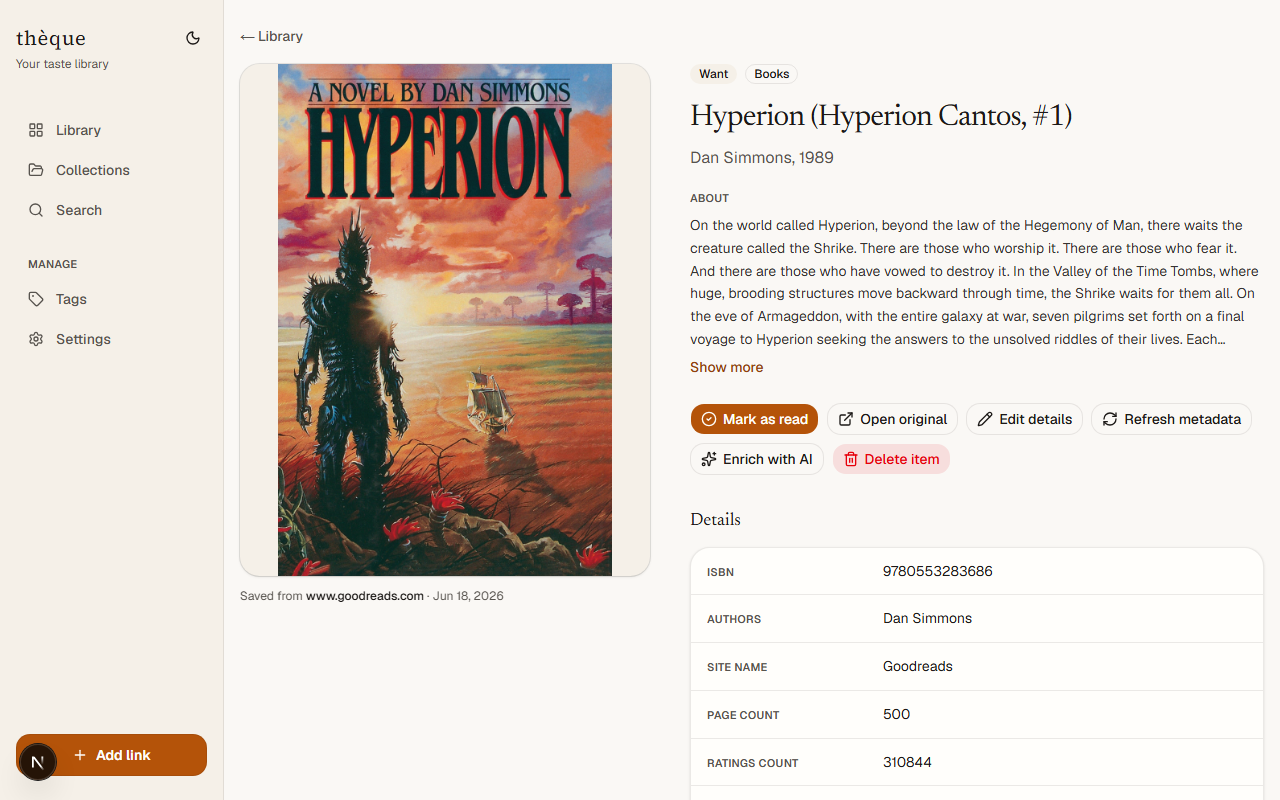
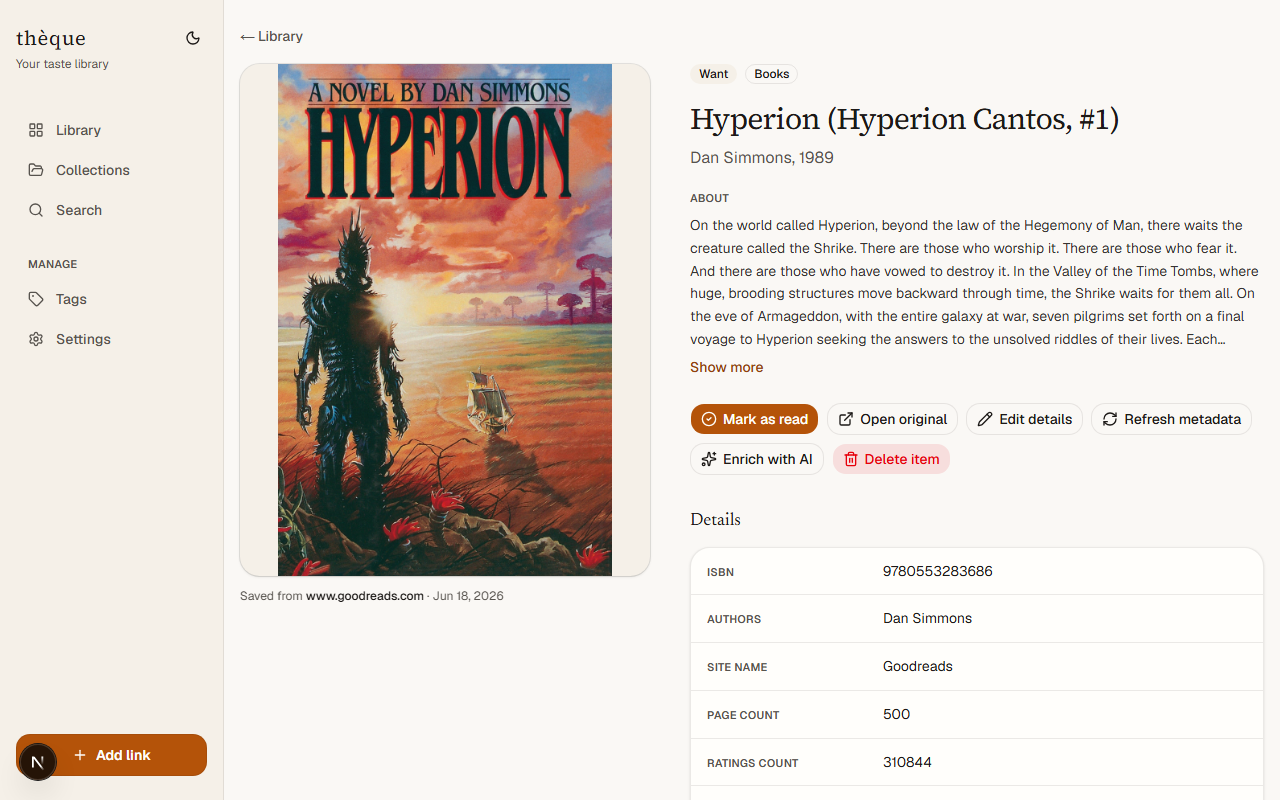
fix: render item titles in Source Serif 4 everywhere for consistency
Item-detail page title and the quick-look / shuffle-pick dialog titles
revert from Newsreader to the wordmark serif so an item title looks the
same on its card and on its detail/dialog views. Generic dialog labels
(e.g. Done) stay on Newsreader. Item-detail screenshot refreshed.

Changed region(s): [[0.5312, 0.125, 0.875, 0.1875]]

diff --git a/src/components/library/ShuffleButton.tsx b/src/components/library/ShuffleButton.tsx
@@ -73,7 +73,7 @@ export function ShuffleButton({ shelfId }: { shelfId: ShelfId }) {
               </div>
               <div className="p-5">
                 <Badge variant="outline">{formatCategory(pick.category)}</Badge>
-                <DialogTitle className="mt-3 font-heading text-xl leading-snug tracking-tight">
+                <DialogTitle className="mt-3 font-serif text-xl leading-snug tracking-tight">
                   {pick.title ?? pick.domain}
                 </DialogTitle>
                 {pick.subtitle ? (

diff --git a/src/components/items/QuickLookDialog.tsx b/src/components/items/QuickLookDialog.tsx
@@ -63,7 +63,7 @@ export function QuickLookDialog({
             <Badge variant="secondary">{formatStatus(item.status)}</Badge>
             {item.category ? <Badge variant="outline">{formatCategory(item.category)}</Badge> : null}
           </div>
-          <DialogTitle className="mt-3 font-heading text-xl leading-snug tracking-tight">
+          <DialogTitle className="mt-3 font-serif text-xl leading-snug tracking-tight">
             {item.title ?? item.domain}
           </DialogTitle>
           {item.subtitle ? (

diff --git a/src/components/items/ItemDetail.tsx b/src/components/items/ItemDetail.tsx
@@ -286,7 +286,7 @@ export function ItemDetail({
             ))}
           </div>
 
-          <h1 className="mt-4 font-heading text-3xl leading-tight tracking-tight text-foreground">
+          <h1 className="mt-4 font-serif text-3xl leading-tight tracking-tight text-foreground">
             {item.title ?? item.domain}
           </h1>
           {item.subtitle ? (
